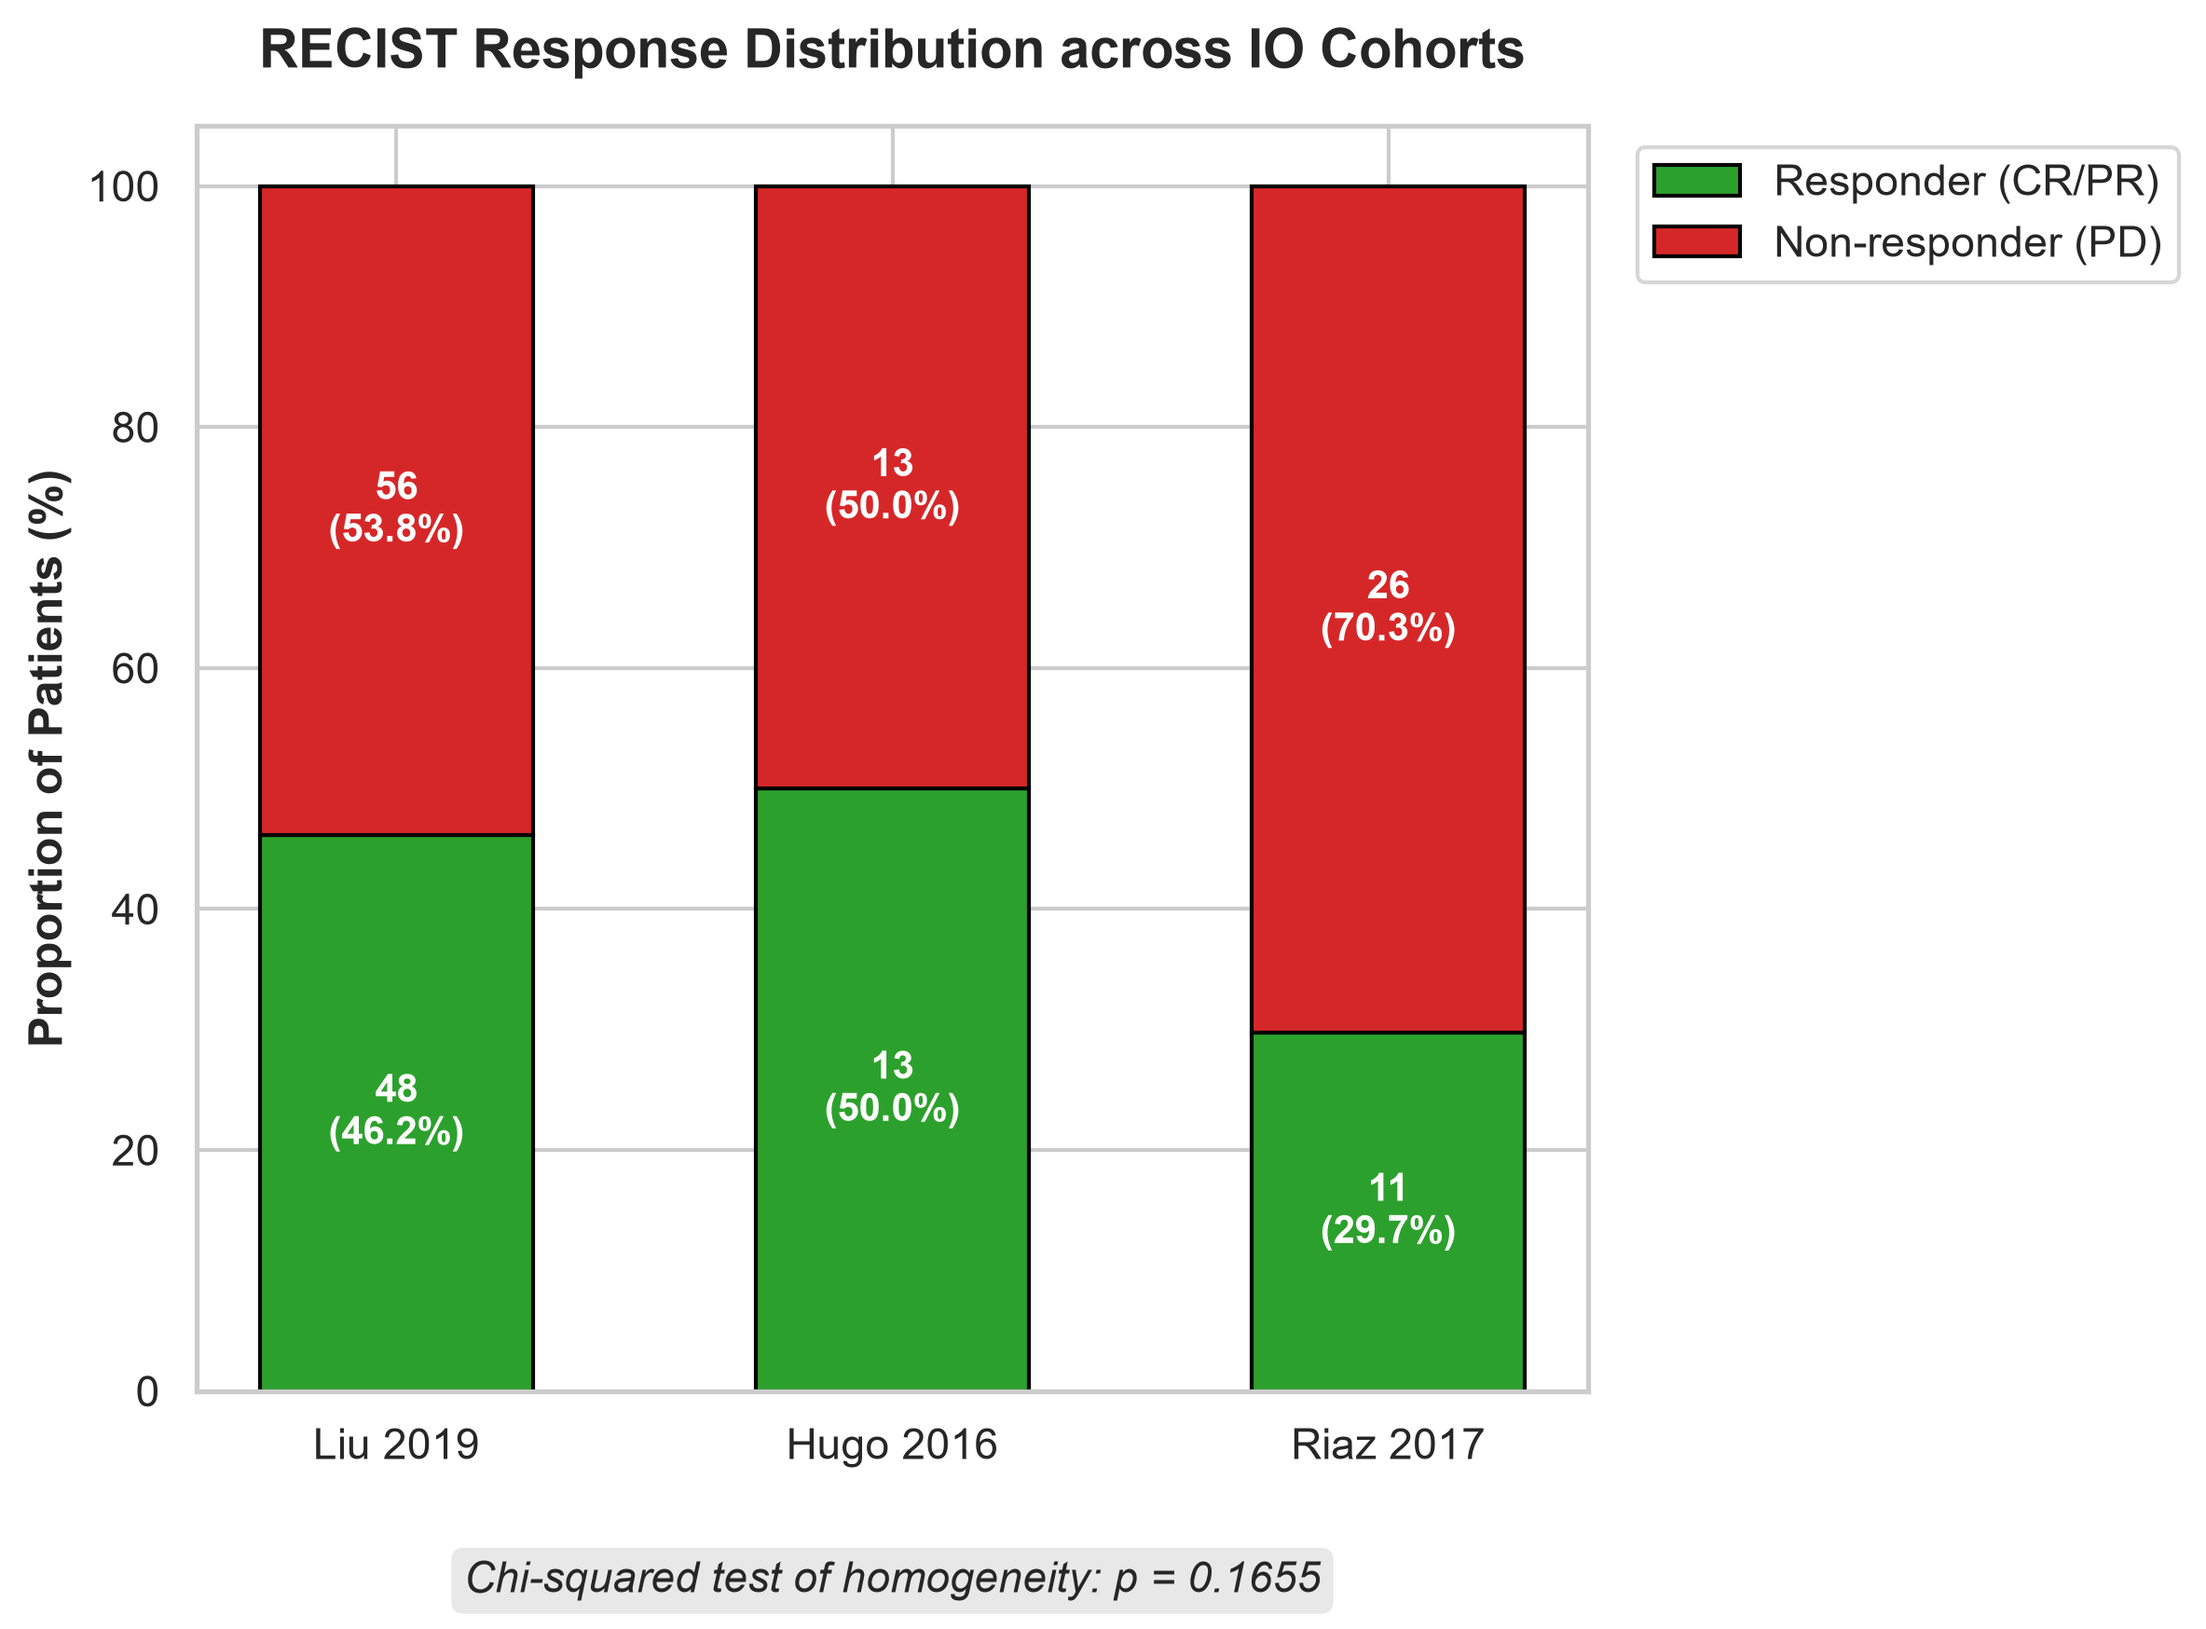
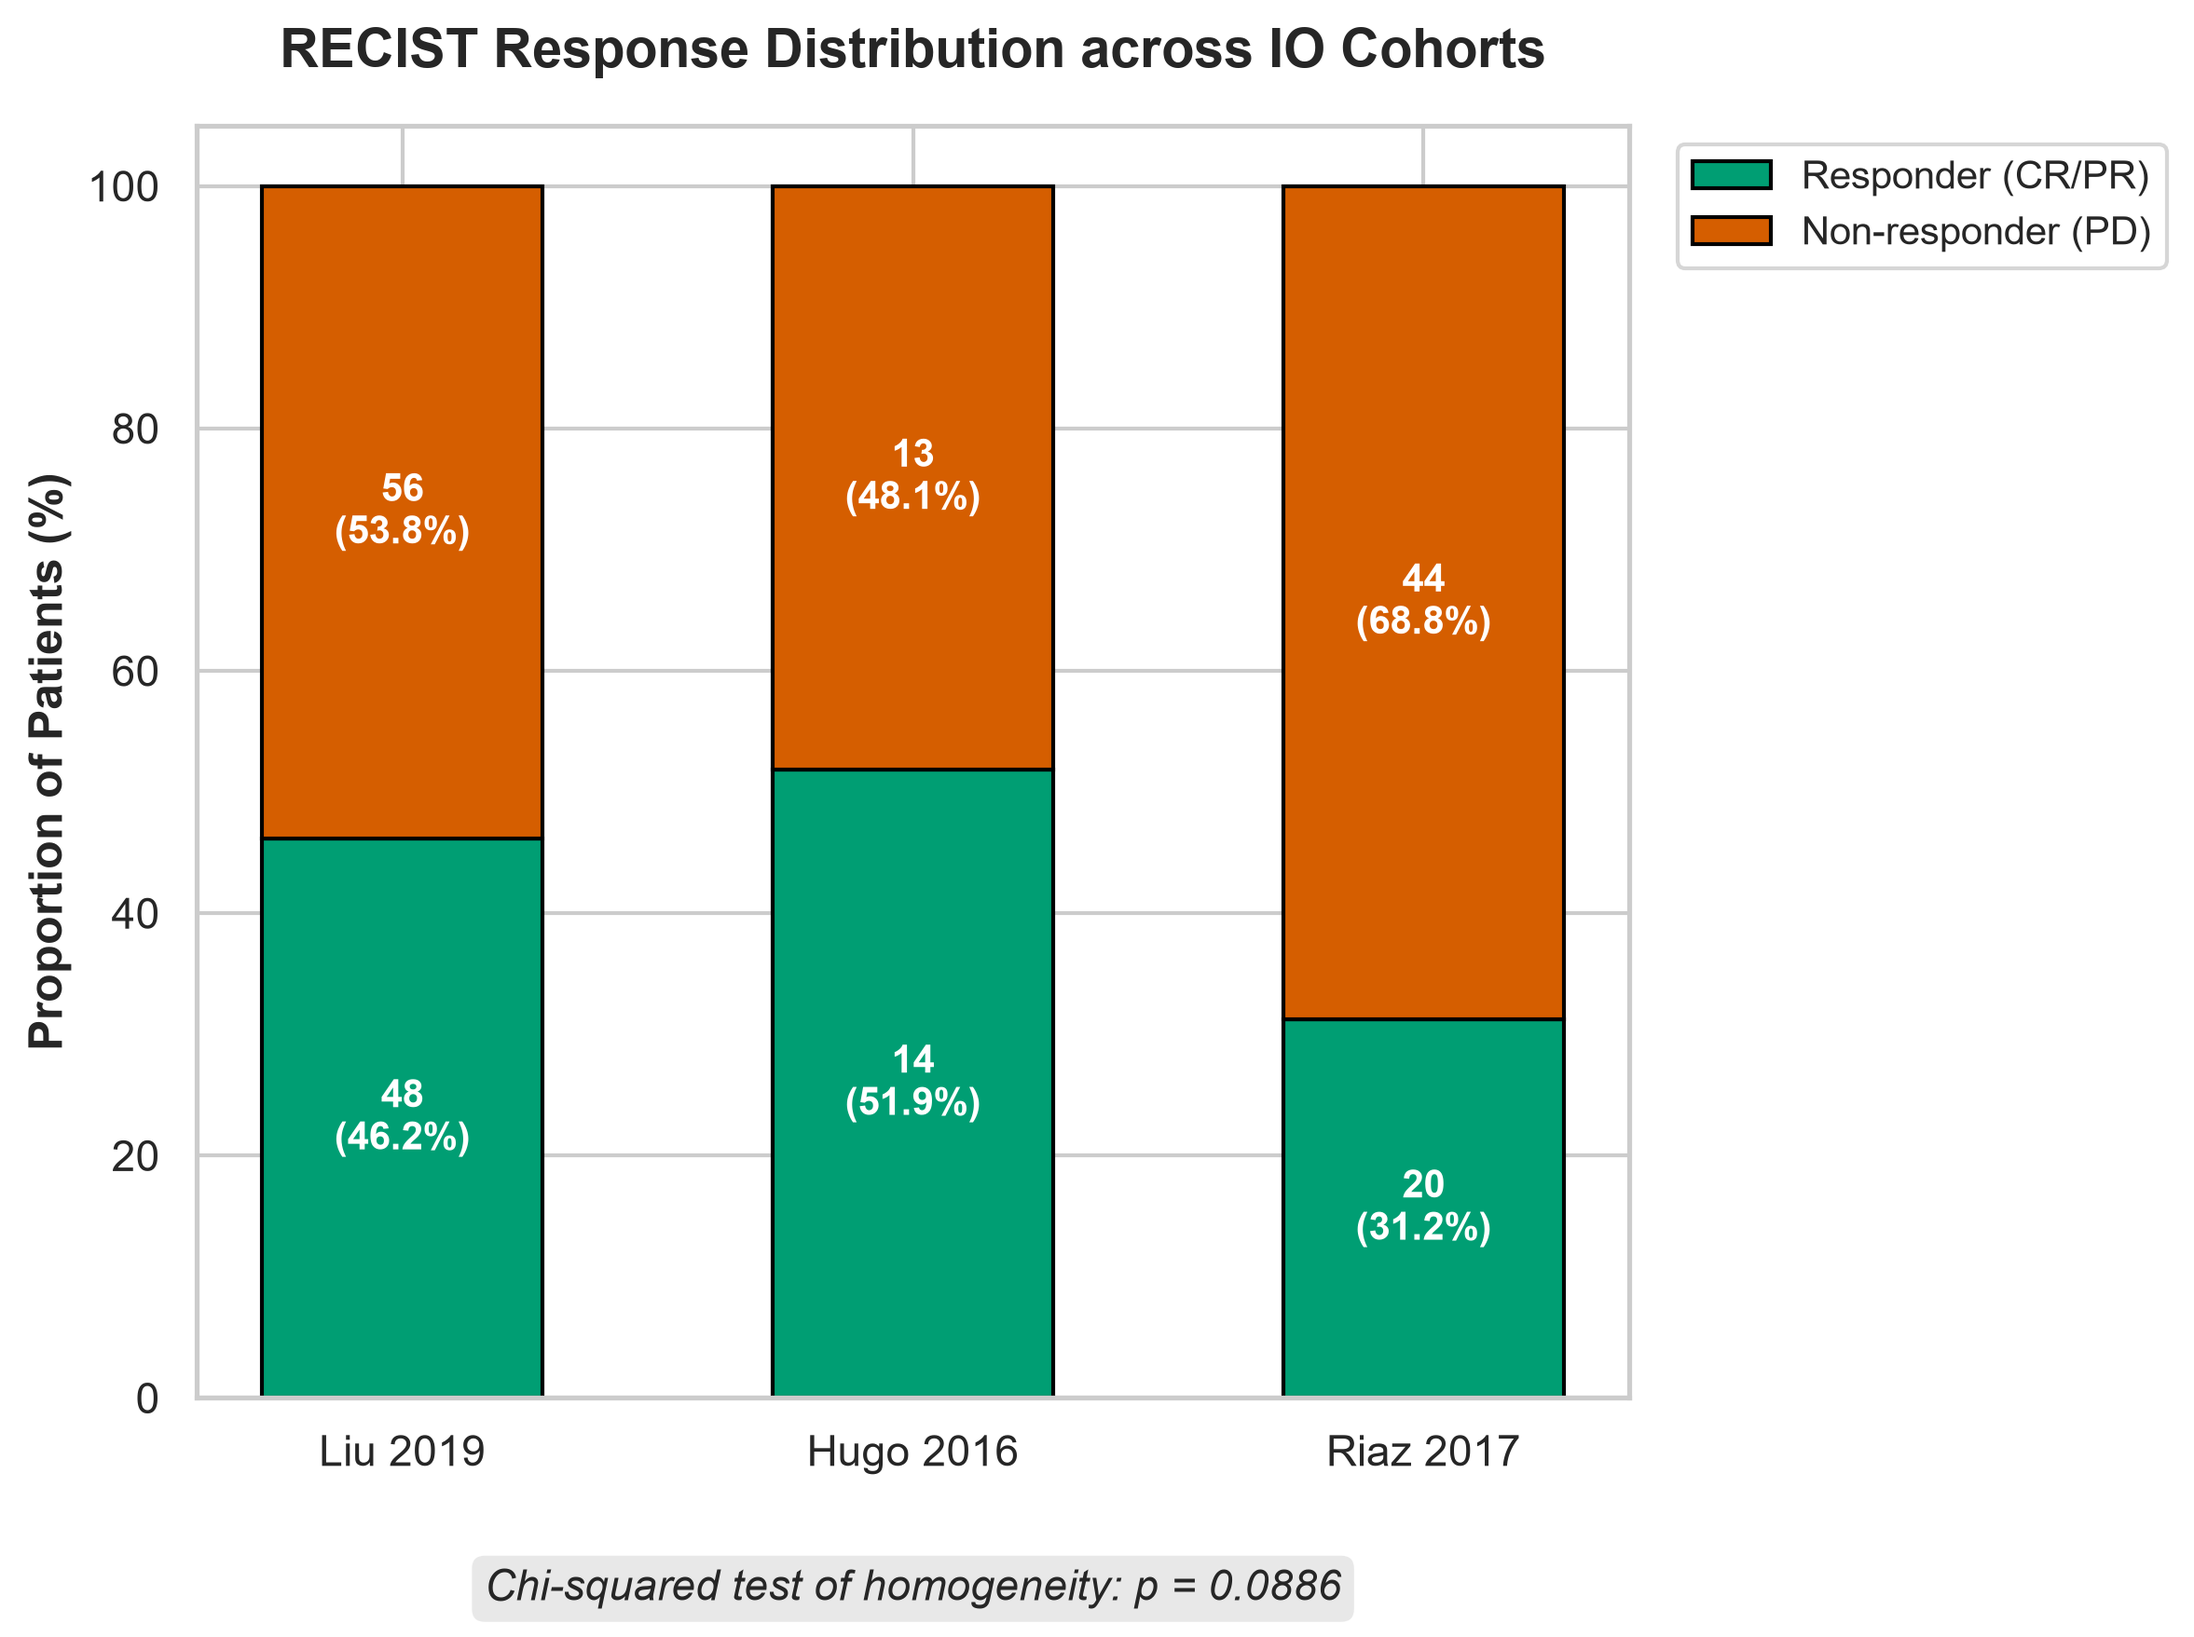
style(clinical): update response_distribution.png to Okabe-Ito gold standard palette

diff --git a/q1-response-predictor/scripts/exploratory_plots/run_response_distribution.py b/q1-response-predictor/scripts/exploratory_plots/run_response_distribution.py
@@ -59,8 +59,9 @@ def main():
     chi2, p_val, dof, expected = chi2_contingency(contingency_table)
     print(f"\nChi-squared test p-value: {p_val:.4f}")
 
-    # Plotting
-    sns.set_theme(style="whitegrid")
+    from src.styles import RESPONSE_PALETTE, set_presentation_style
+
+    set_presentation_style()
     fig, ax = plt.subplots(figsize=(8, 6))
 
     cohort_names = df_resp["Cohort"].tolist()
@@ -71,8 +72,8 @@ def main():
     r_prop = responders / totals * 100
     nr_prop = non_responders / totals * 100
 
-    c_responder = "#2ca02c"
-    c_nonresponder = "#d62728"
+    c_responder = RESPONSE_PALETTE["CR/PR"]
+    c_nonresponder = RESPONSE_PALETTE["PD"]
 
     bars1 = ax.bar(cohort_names, r_prop, label="Responder (CR/PR)", color=c_responder, width=0.55, edgecolor="black")
     bars2 = ax.bar(cohort_names, nr_prop, bottom=r_prop, label="Non-responder (PD)", color=c_nonresponder, width=0.55, edgecolor="black")
